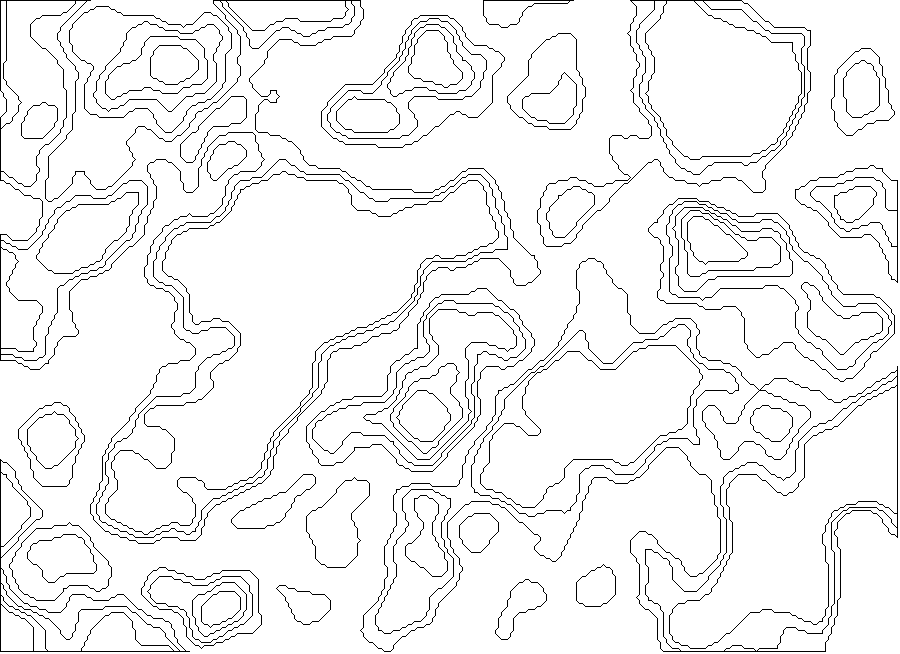
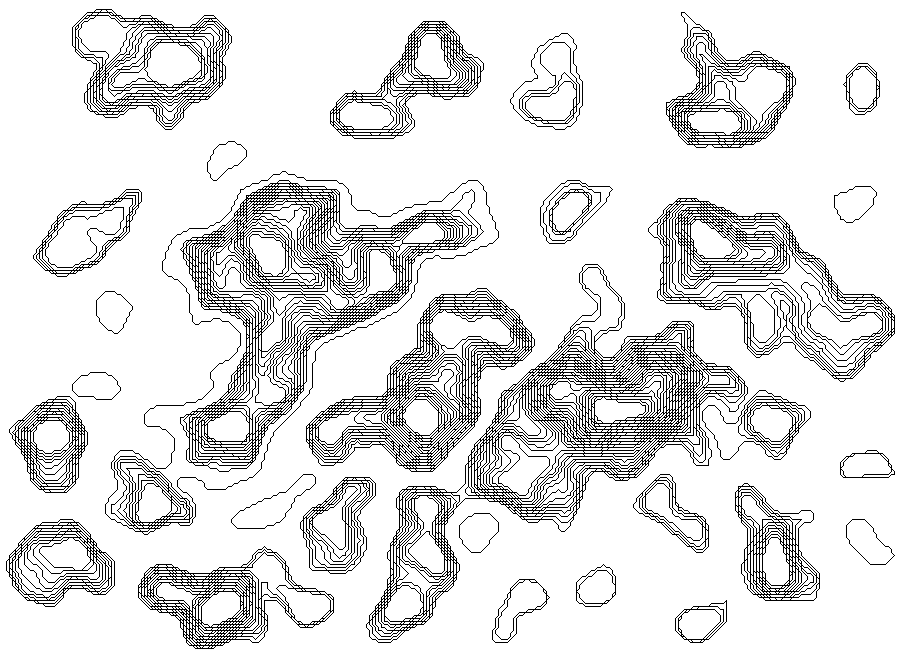
betterings

diff --git a/perlin.py b/perlin.py
@@ -31,7 +31,7 @@ def flayer(t):
     img = fimg(t)
     image = cv2.cvtColor(img.copy(), cv2.COLOR_RGB2GRAY)
     image, contours, hierarchy = cv2.findContours(image.copy(), cv2.RETR_TREE, cv2.CHAIN_APPROX_SIMPLE)
-    for contour in contours:
+    for contour in contours[:10]:
         peri = cv2.arcLength(contour, True)
         approx = cv2.approxPolyDP(contour, 0.01 * peri, True)
         area = cv2.contourArea(contour)
@@ -39,12 +39,15 @@ def flayer(t):
         if area > (W*H)/2.0 or area < 100: continue
 
         ps = [[c[0][0], c[0][1]] for c in contour]
+
+        if any(p[0]>=(W-1) or p[1]>=(H-1) or p[0]<1 or p[1]<1 for p in ps): continue
+
         ps.append(ps[0])
         pss.append(ps)
     return pss
 
 paths = []
-b = 0.1
-for i in range(100):
-    paths.extend(flayer(b-i/20.0))
+b = 0.9
+for i in range(200):
+    paths.extend(flayer(b-i/100.0))
 plot_paths(paths)

diff --git a/README.md b/README.md
@@ -15,17 +15,4 @@
 ## runes.py
 ![runes.py](https://raw.githubusercontent.com/aleksimyllyoja/generative/master/img/runes.png)
 
-## img2path.py
-![img2path.py](https://raw.githubusercontent.com/aleksimyllyoja/generative/master/img/img2paths.png)
-
-## beziers.py
-![beziers.py](https://raw.githubusercontent.com/aleksimyllyoja/generative/master/img/beziers.png)
-
-## flowers.py
-![flowers.py](https://raw.githubusercontent.com/aleksimyllyoja/generative/master/img/flowers.png)
-
-## gingerbreadman.py
-![gingerbreadman.py](https://raw.githubusercontent.com/aleksimyllyoja/generative/master/img/gingerbreadman.png)
-
-
 * obj files: https://people.sc.fsu.edu/~jburkardt/data/obj/obj.html
